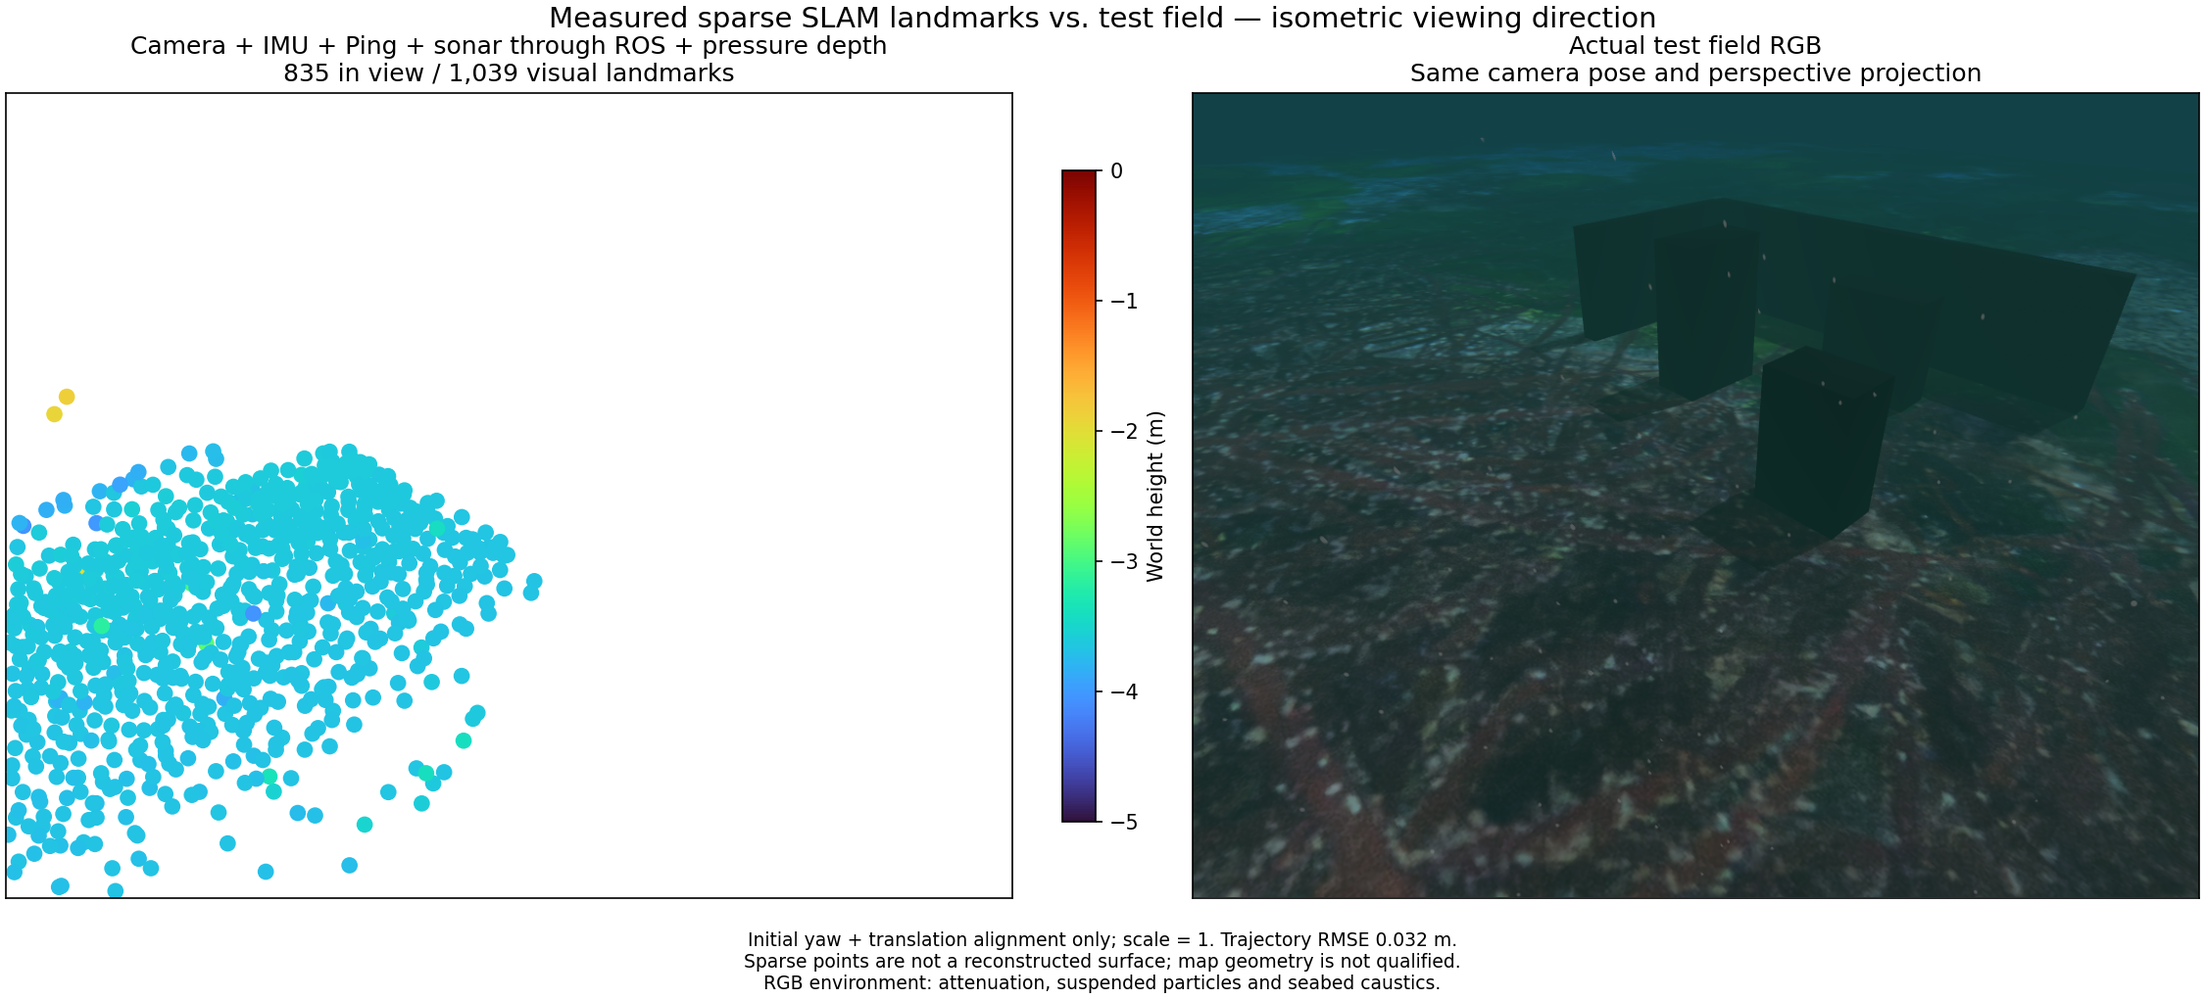
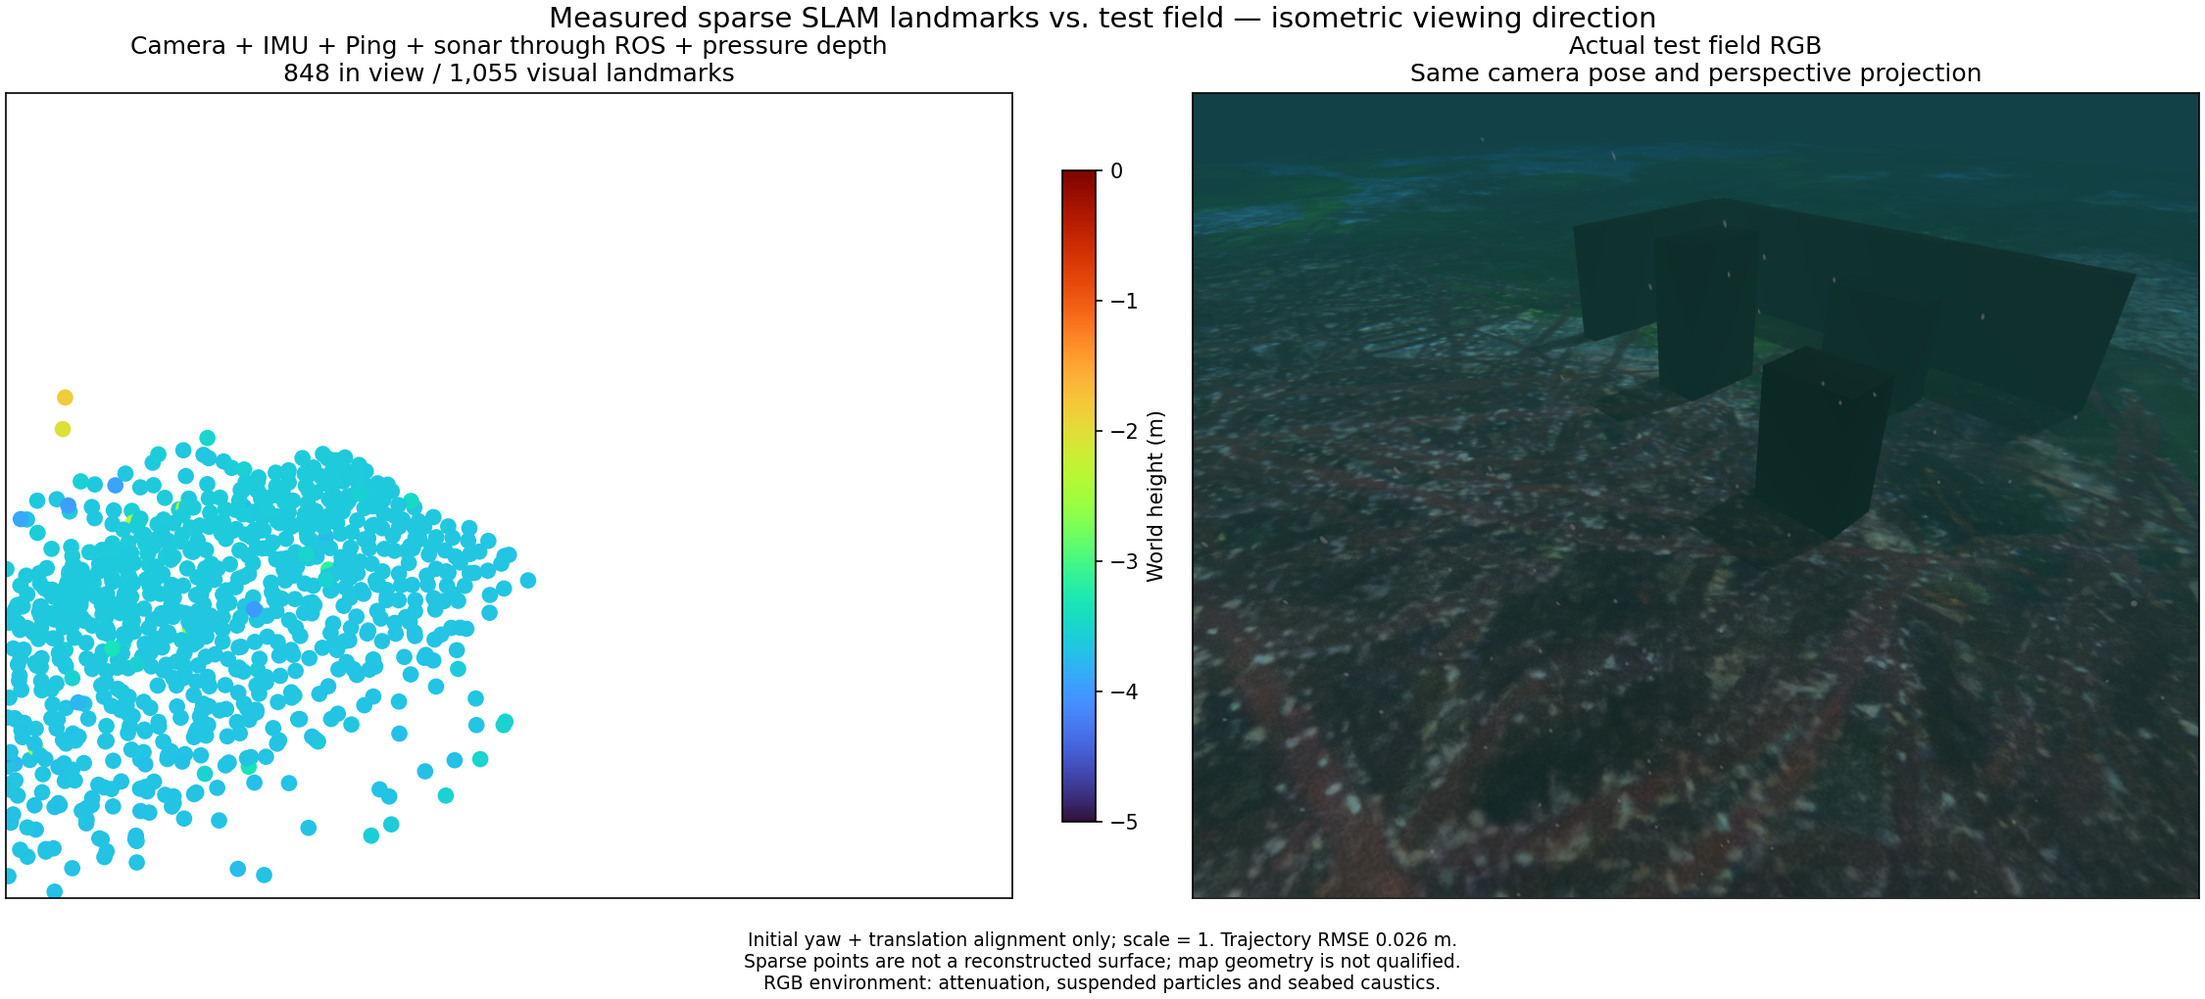
Reduce shared nuisance elimination cost and release impossible exact pairs

diff --git a/native/basalt/test_ping_joint_native.py b/native/basalt/test_ping_joint_native.py
@@ -9,12 +9,17 @@ from posim_slam.ping_scale import PING_DIRECTIONS
 
 @unittest.skipUnless(os.environ.get('POSIM_SLAM_PING_PROBE'),'compiled native Ping probe required')
 class NativeJointTests(unittest.TestCase):
-    def compare(self,j,r,retained):
+    def compare(self,j,r,retained,damping=0.):
         rows,cols=j.shape
         text=f'{rows} {cols} {retained}\n'+'\n'.join(' '.join(map(str,[*row,value])) for row,value in zip(j,r))+'\n'
-        result=subprocess.run([os.environ['POSIM_SLAM_PING_PROBE']],input=text,text=True,
+        result=subprocess.run([os.environ['POSIM_SLAM_PING_PROBE'],str(damping)],input=text,text=True,
                               capture_output=True,timeout=30,check=True)
-        actual=np.fromstring(result.stdout,sep=' ');ref=eliminate_patch(j,r,retained_columns=retained)
+        actual=np.fromstring(result.stdout,sep=' ')
+        if damping:
+            nuisance=j[:,retained:];n=nuisance.shape[1]
+            extra=np.zeros((n,j.shape[1]));extra[:,retained:]=np.diag(np.sqrt(np.maximum((nuisance*nuisance).sum(axis=0)*damping,1e-9)))
+            j=np.vstack([j,extra]);r=np.r_[r,np.zeros(n)]
+        ref=eliminate_patch(j,r,retained_columns=retained)
         expected=np.r_[ref['nuisance_rank'],ref['nuisance_nullity'],
             (ref['jacobian'].T@ref['jacobian']).ravel(),ref['jacobian'].T@ref['residual'],
             ref['residual']@ref['residual'],ref['backsub_matrix'].ravel(),ref['backsub_offset']]
@@ -27,6 +32,17 @@ class NativeJointTests(unittest.TestCase):
             self.compare(j,r,retained)
             j[:,-1]=j[:,-2];self.compare(j,r,retained)
         self.compare(np.zeros((8,15)),np.ones(8),6)
+
+    def test_tall_damped_and_rank_deficient_groups_preserve_information(self):
+        rng=np.random.default_rng(319)
+        for rows,retained,nuisance in ((1024,12,9),(300,36,24),(7,6,12)):
+            j=rng.normal(size=(rows,retained+nuisance));r=rng.normal(size=rows)
+            for rank_deficient in (False,True):
+                if rank_deficient:j[:,-3:]=j[:,[-4,-4,-4]]
+                for damping in (0.,1e-3,10.):
+                    with self.subTest(rows=rows,rank_deficient=rank_deficient,damping=damping):
+                        self.compare(j,r,retained,damping)
+        self.compare(np.zeros((128,18)),rng.normal(size=128),6)
 
     def test_real_ping_block_with_joint_landmark_rows(self):
         normal=np.array([.1,.2,1.]);normal/=np.linalg.norm(normal)

diff --git a/native/basalt/ping_joint.hpp b/native/basalt/ping_joint.hpp
@@ -47,16 +47,30 @@ inline JointPatchReduction eliminateJointPatch(
     return eliminateJointPatch(augmented,values,retained);
   }
   const Eigen::MatrixXd nuisance=j.rightCols(j.cols()-retained);
-  Eigen::JacobiSVD<Eigen::MatrixXd> svd(nuisance,Eigen::ComputeFullU|Eigen::ComputeFullV);
+  Eigen::JacobiSVD<Eigen::MatrixXd> svd(nuisance,Eigen::ComputeThinU|Eigen::ComputeThinV);
   if (svd.info()!=Eigen::Success)throw std::runtime_error("joint_patch_svd_failed");
   const auto& singular=svd.singularValues();
   const double tolerance=std::max(nuisance.rows(),nuisance.cols())*
       std::numeric_limits<double>::epsilon()*singular[0];
   const Eigen::Index rank=(singular.array()>tolerance).count();
-  const Eigen::MatrixXd null=svd.matrixU().rightCols(j.rows()-rank);
-  const Eigen::MatrixXd inverse=svd.matrixV().leftCols(rank)*
-      singular.head(rank).cwiseInverse().asDiagonal()*svd.matrixU().leftCols(rank).transpose();
-  return {null.transpose()*j.leftCols(retained),null.transpose()*residual,
-          -inverse*j.leftCols(retained),-inverse*residual,rank,nuisance.cols()-rank};
+  // Only the observed nuisance span is needed. Forming full U (rows x rows)
+  // and its explicit nullspace makes tall groups unnecessarily quadratic in
+  // observation count. Apply the orthogonal complement through reflectors.
+  // SVD still decides rank with the identical cutoff and minimum-norm solve.
+  Eigen::MatrixXd combined(j.rows(),retained+1);
+  combined.leftCols(retained)=j.leftCols(retained);combined.col(retained)=residual;
+  Eigen::MatrixXd backsub=Eigen::MatrixXd::Zero(nuisance.cols(),retained+1);
+  if(rank) {
+    const Eigen::MatrixXd observed=svd.matrixU().leftCols(rank);
+    backsub.noalias()=-(svd.matrixV().leftCols(rank)*singular.head(rank).cwiseInverse().asDiagonal())*
+        (observed.transpose()*combined);
+    if(rank<j.rows()) {
+      Eigen::HouseholderQR<Eigen::MatrixXd> qr(observed);
+      combined=(qr.householderQ().adjoint()*combined).eval();
+    }
+  }
+  const auto remaining=j.rows()-rank;
+  return {combined.bottomRows(remaining).leftCols(retained),combined.col(retained).tail(remaining),
+          backsub.leftCols(retained),backsub.col(retained),rank,nuisance.cols()-rank};
 }
 }  // namespace posim_slam

diff --git a/tests/test_exact_pair.py b/tests/test_exact_pair.py
@@ -10,8 +10,8 @@ class PairTests(unittest.TestCase):
             else:b.ping(100,2.);b.image(100,'a',0)
             self.assertEqual(b.drain(.01),[('a',(100,2.))])
         b=ExactImagePing();b.image(100,'a',0);b.image(200,'b',.01);b.ping(200,3.)
-        self.assertEqual(b.drain(.02),[])
-        self.assertEqual(b.drain(.16),[('a',None),('b',(200,3.))])
+        self.assertEqual(b.drain(.02),[('a',None),('b',(200,3.))])
+        self.assertEqual(b.drain(.16),[])
 
     def test_nearby_and_late_samples_never_retime_and_invalid_return_is_missing(self):
         b=ExactImagePing();b.image(100,'a',0);b.ping(99,2.)
@@ -20,6 +20,19 @@ class PairTests(unittest.TestCase):
         b.ping(200,None);b.image(200,'b',.2)
         self.assertEqual(b.drain(.2),[('b',None)])
         self.assertEqual((b.matched,b.unpaired),(0,2))
+
+    def test_missing_ping_watermark_releases_burst_without_reusing_measurement(self):
+        b=ExactImagePing()
+        for stamp in (100,200,300,400):b.image(stamp,str(stamp),0.)
+        self.assertEqual(b.drain(.01),[])
+        b.ping(300,3.)
+        self.assertEqual(b.drain(.01),[('100',None),('200',None),('300',(300,3.))])
+        b.image(500,'500',.02)
+        self.assertEqual(b.drain(.03),[])
+        self.assertEqual(b.drain(.16),[('400',None)])
+        b.ping(500,5.)
+        self.assertEqual(b.drain(.16),[('500',(500,5.))])
+        self.assertEqual((b.matched,b.unpaired),(2,3))
 
     def test_bounded_inputs_and_clock_reversal(self):
         b=ExactImagePing()

diff --git a/native/basalt/ping_joint_probe.cc b/native/basalt/ping_joint_probe.cc
@@ -4,7 +4,7 @@
 #include <iostream>
 #include <iomanip>
 
-int main() {
+int main(int argc,char** argv) {
   try {
     Eigen::Index rows,cols,retained;
     if (!(std::cin>>rows>>cols>>retained) || rows<1 || rows>4096 || cols<2 || cols>posim_slam::kMaxJointColumns)
@@ -14,7 +14,9 @@ int main() {
       for (Eigen::Index col=0;col<cols;++col)if (!(std::cin>>j(row,col)))return 2;
       if (!(std::cin>>r[row]))return 2;
     }
-    auto reduced=posim_slam::eliminateJointPatch(j,r,retained);
+    if(argc>2)return 2;
+    const double damping=argc==2 ? std::stod(argv[1]) : 0.;
+    auto reduced=posim_slam::eliminateJointPatch(j,r,retained,damping);
     std::cout<<std::setprecision(17)<<reduced.nuisance_rank<<' '<<reduced.nuisance_nullity<<'\n';
     // Compare normal equations, not arbitrary signs of singular vectors.
     std::cout<<reduced.jacobian.transpose()*reduced.jacobian<<'\n';

diff --git a/src/posim_slam/exact_pair.py b/src/posim_slam/exact_pair.py
@@ -24,7 +24,9 @@ class ExactImagePing:
     def drain(self,now):
         result=[]
         for stamp,(payload,arrival) in list(self.images.items()):
-            if stamp not in self.pings and now-arrival<.15:break
+            # Ping stamps are strictly increasing. A later packet proves this
+            # exact match was omitted; waiting cannot recover it.
+            if stamp not in self.pings and self.last_ping<=stamp and now-arrival<.15:break
             value=self.pings.get(stamp)
             if value is None:self.unpaired+=1
             else:self.matched+=1

diff --git a/docs/diagnostics/mixed-sonar-pressure.md b/docs/diagnostics/mixed-sonar-pressure.md
@@ -6,18 +6,32 @@ The experimental ROS owner combines camera, raw IMU, single Ping, imaging sonar 
 
 ![Acoustic hypotheses and matched RGB](../images/mixed-pressure-sonar.png)
 
-The recorded ROS/native run exports 1,039 visual points and 69 acoustic hypotheses at a 5 Hz camera cap and 0.6x playback. Initial yaw/translation alignment keeps scale one. Position RMSE is 0.032 m. Only 37 acoustic hypotheses lie within 10 cm of a physical surface; surface-distance p90 is 0.311 m and maximum is 0.622 m. The sparse acoustic map does not reconstruct the terrain and remains unqualified.
+The recorded ROS/native example exports 1,055 visual points and 61 acoustic hypotheses at a 5 Hz camera cap and 1x playback. Initial yaw/translation alignment keeps scale one. Position RMSE is 0.026 m over the 29.6-second comparison segment. Only 33 acoustic hypotheses lie within 10 cm of a physical surface; surface-distance p90 is 0.252 m and maximum is 0.671 m. The sparse acoustic map does not reconstruct the terrain and remains unqualified.
 
-Each pair uses the same isometric perspective, fixed Turbo height limits and enlarged markers. Field RGB includes underwater attenuation, suspended particles, seabed caustics and sea surface. This RGB overview and simulator geometry are evaluation-only. Estimation uses the recorded onboard camera, raw IMU, Ping, sonar and pressure observations.
+Each pair uses the same isometric perspective, fixed Turbo height limits and 4× marker diameter. Field RGB includes underwater attenuation, suspended particles, seabed caustics and sea surface. This RGB overview and simulator geometry are evaluation-only. Estimation uses the recorded onboard camera, raw IMU, Ping, sonar and pressure observations.
 
-Pressure interruption clears the acoustic map and rejects export. A fresh segment recovers 422 visual points, 12 acoustic hypotheses and 11 optimized pressure states. Sonar interruption also recovers; the camera/IMU/Ping control passes. These are recorded-input ROS/native integration checks, not new Gazebo missions, real-time deadlines or installed-app qualification. A 5 Hz/0.7x run overflows the bounded queue after a 2.7 s native processing stall; a 3 Hz trial loses visual support. Both failures remain open. Lower camera rates cannot qualify the default provider.
+## Integration and processing limits
+
+The 1x sonar interruption/recovery check publishes 208 poses. Loss clears both maps and rejects both exports; a fresh segment recovers 448 visual points, seven acoustic hypotheses and 11 optimized pressure states. The shorter 1x pressure interruption check also passes. Camera/IMU/Ping at a 10 Hz camera cap passes at 0.6x playback with 338 poses and 1,357 exported points. These recorded-input ROS/native checks do not qualify a new Gazebo mission or an installed application.
+
+A continuous 1x mixed playback trial fills the 16-event queue after approximately 40 seconds, before the planned sensor interruption. A trace-enabled repeat reaches the planned interruption without that overflow but rejects the recovered sonar export because no map is available. Plain camera/IMU/Ping at 1x also encounters worker input backlog. The short recovery checks reset estimator state during the run and cannot establish sustained real-time performance. Default panel activation remains gated on processing and map quality.
+
+Shared nuisance elimination uses thin SVD for the same rank test and minimum-norm back-substitution, followed by implicit Householder transforms of the retained Jacobian and residual. This preserves reduced information, residual cost and state correlations without allocating the full left singular basis. Independent NumPy tests cover tall, wide, rank-deficient, zero and damped systems. Four fixed synthetic systems measure 1.02–13.12× kernel speedup; this is not an end-to-end speedup. Exact camera/Ping pairing also releases a missing match once a strictly later Ping timestamp proves it cannot arrive, retaining the existing queue and timeout limits.
+
+The earlier 2.7-second `processing_ms` observation measures owner submission to paired pose/map acknowledgement, including scheduling and queues. It is not an isolated native solve time. Native profiling identifies full-basis elimination as a cost, but the remaining continuous-run bottleneck needs separate measurement. These are standard numerical and stream-ordering improvements, without a research novelty claim.
 
 ## 한국어
 
 실험용 ROS 경로는 카메라·원본 IMU·단일 Ping·영상 소나·정수압 수심을 결합합니다. 압력 제약은 보정된 분산, 센서 장착 위치와 공유 미지 높이 기준값을 사용합니다. 원래 측정 시각을 유지하며, 검증된 수신 시각은 1 Hz 제약 선택과 독립적으로 입력 정렬을 갱신합니다. 두 지도 모두 센서·실시간 시계에서 최근 압력의 실제 최적화 반영을 확인해야 표시·내보내기를 허용합니다.
 
-위 비교는 카메라 한도 5 Hz, 0.6배속 재생에서 얻은 시각 점 1,039개와 소나 가설점 69개입니다. 초기 방위각·위치만 정렬하며 축척은 1입니다. 위치 RMSE는 0.032 m이고 소나 점 37개만 실제 표면 10 cm 이내입니다. 표면 거리 오차 p90은 0.311 m, 최대는 0.622 m여서 지형 복원 합격으로 인정하지 않습니다.
+위 비교는 카메라 한도 5 Hz, 1배속 재생에서 얻은 시각 점 1,055개와 소나 가설점 61개입니다. 초기 방위각·위치만 정렬하며 축척은 1입니다. 29.6초 비교 구간의 위치 RMSE는 0.026 m이고 소나 점 33개만 실제 표면 10 cm 이내입니다. 표면 거리 오차 p90은 0.252 m, 최대는 0.671 m여서 지형 복원 합격으로 인정하지 않습니다.
 
-두 비교는 같은 등각 방향 원근 투영, 고정 Turbo 높이 범위와 확대된 점을 사용합니다. RGB에는 수중 감쇠·부유 입자·해저 집광무늬·수면이 포함됩니다. 이 현장 RGB와 지형은 평가용이고, 추정 입력은 기록된 차량 카메라·IMU·Ping·소나·수압입니다.
+두 비교는 같은 등각 방향 원근 투영, 고정 Turbo 높이 범위와 지름 4배의 점을 사용합니다. RGB에는 수중 감쇠·부유 입자·해저 집광무늬·수면이 포함됩니다. 이 현장 RGB와 지형은 평가용이고, 추정 입력은 기록된 차량 카메라·IMU·Ping·소나·수압입니다.
 
-압력 중단 뒤 새 구간에서 시각 점 422개·소나 가설점 12개·압력 최적화 상태 11개로 복구합니다. 소나 중단 복구와 기존 카메라·IMU·Ping 대조 실행도 통과합니다. 기록 기반 ROS/네이티브 연동 결과이며 새 Gazebo 주행·실시간 성능·설치형 앱 합격은 아닙니다. 5 Hz/0.7배속에서는 약 2.7초 처리 지연 후 큐가 넘쳤고, 3 Hz에서는 시각 추적을 잃었습니다. 두 문제는 미해결이며 낮은 카메라 주기만으로 기본 설정의 합격을 인정하지 않습니다.
+1배속 소나 중단·복구 시험은 자세 208개를 발행합니다. 중단 시 두 지도를 비우고 내보내기를 거부하며, 새 구간에서 시각 점 448개·소나 가설점 7개·압력 최적화 상태 11개로 복구합니다. 짧은 1배속 압력 중단 시험도 통과합니다. 카메라 한도 10 Hz의 카메라·IMU·Ping 대조 실행은 0.6배속에서 자세 338개와 점 1,357개로 통과합니다. 기록 기반 ROS/네이티브 연동 결과이며 새 Gazebo 주행이나 설치형 앱 합격은 아닙니다.
+
+혼합 센서의 연속 1배속 시험에서는 약 40초 뒤, 예정된 센서 중단 전에 16개 입력 큐가 가득 찹니다. 진단 로그를 켠 반복 실행은 큐 초과 없이 예정된 중단까지 진행했지만 복구 후 소나 지도가 없어 내보내기를 거부합니다. 기존 카메라·IMU·Ping의 1배속 실행도 작업자 입력 적체가 발생합니다. 짧은 복구 시험은 중간에 추정 상태를 초기화하므로 지속적인 실시간 성능을 증명하지 못합니다. 패널 기본 활성화에는 처리 성능과 지도 품질 검증이 더 필요합니다.
+
+공통 보조 변수 제거는 thin SVD로 같은 랭크 판정과 최소 노름 역대입을 수행하고, Householder 변환을 암시적으로 적용합니다. 전체 좌특이벡터 행렬을 만들지 않으면서 축약 정보·잔차 비용·상태 간 상관을 유지합니다. 독립 NumPy 검증은 긴 행렬·넓은 행렬·랭크 부족·영행렬·감쇠 조건을 포함합니다. 고정 합성 행렬 네 개의 해당 계산은 1.02~13.12배 빨라지지만 전체 실행 속도 개선율은 아닙니다. 카메라/Ping의 정확한 시각 연결은 더 늦은 Ping 수신으로 누락이 확정된 영상을 즉시 해제합니다. 큐와 대기 한도는 그대로입니다.
+
+앞선 2.7초 `processing_ms`는 입력 전달부터 자세·지도 응답까지의 시간으로 스케줄링과 큐 대기를 포함합니다. 순수 네이티브 최적화 시간은 아닙니다. 프로파일에서 전체 기저 제거 계산의 비용을 확인했지만 연속 실행의 남은 병목은 별도 측정이 필요합니다. 이번 수정은 알려진 수치 계산·입력 정렬 기법이며 연구 신규성을 주장하지 않습니다.

diff --git a/native/basalt/README.md b/native/basalt/README.md
@@ -45,6 +45,12 @@ bounded, one-state-at-a-time acknowledgement contract.
 `SensorEvents(state_clock="sonar")`는 소나와 이후 IMU를 정렬하고, 한 상태의
 응답을 확인한 뒤 다음 상태를 전달합니다.
 
+## Joint nuisance elimination / 공동 보조변수 소거
+
+`ping_joint.hpp` uses thin SVD to determine nuisance rank and the minimum-norm back-substitution. Householder reflectors apply the orthogonal complement without allocating the full left-singular-vector matrix. The reduced information, residual cost, datum/state correlations and LM damping contract are preserved. Rank cutoffs, input limits and optimizer iteration limits are unchanged. The independent NumPy full-SVD reference checks tall, wide, deficient and damped systems.
+
+`ping_joint.hpp`는 thin SVD로 보조변수의 순위와 최소 노름 역대입을 구합니다. 전체 좌특이벡터 행렬을 만들지 않고 Householder 반사로 직교 여공간을 적용합니다. 축약된 정보·잔차 비용·높이 기준과 상태의 상관관계·LM 감쇠 규약을 보존합니다. 순위 기준, 입력 한도와 최적화 반복 한도는 같습니다. 독립 NumPy 전체 SVD 기준으로 긴 행렬·넓은 행렬·순위 부족·감쇠 사례를 검사합니다.
+
 ## Raw DVL velocity factors / 원본 DVL 속도 제약
 
 `enable_joint_dvl: true` adds bottom-locked velocity factors to the same native
@@ -776,14 +782,14 @@ the caller; the wire format accepts finite positive ranges up to 1000 m.
 유한한 양수 거리를 허용합니다.
 
 
-`posim_slam.exact_pair.ExactImagePing` joins independently delivered images and
+`posim_slam.exact_pair.ExactImagePing` releases an unmatched image once a strictly later Ping arrives; the missing exact timestamp cannot arrive within that ordered stream. It joins independently delivered images and
 single ranges by exact nanosecond timestamps. It waits up to 0.15 seconds for a
 missing pair, then releases the image without a range. Invalid returns are
 represented by `None`; late observations never modify an already released image.
 It bounds pending input to four images and 64 ranges. The single-threaded owner
 must replace the buffer when its sensor clock or estimator segment resets.
 
-`posim_slam.exact_pair.ExactImagePing`은 따로 도착하는 영상과 단일 거리를
+`posim_slam.exact_pair.ExactImagePing`은 더 늦은 Ping이 도착하면 짝이 없는 이전 영상을 즉시 처리합니다. 순서가 보장된 스트림에서 그 이전 시각의 Ping은 더 이상 도착할 수 없습니다. 따로 도착하는 영상과 단일 거리를
 나노초 타임스탬프가 정확히 같은 경우에만 묶습니다. 짝이 없으면 최대 0.15초
 기다린 뒤 거리 없이 영상을 내보냅니다. 무효 반환값은 `None`으로 표현하며,
 늦게 온 관측으로 이미 내보낸 영상을 수정하지 않습니다. 대기 입력은 영상 4개와
